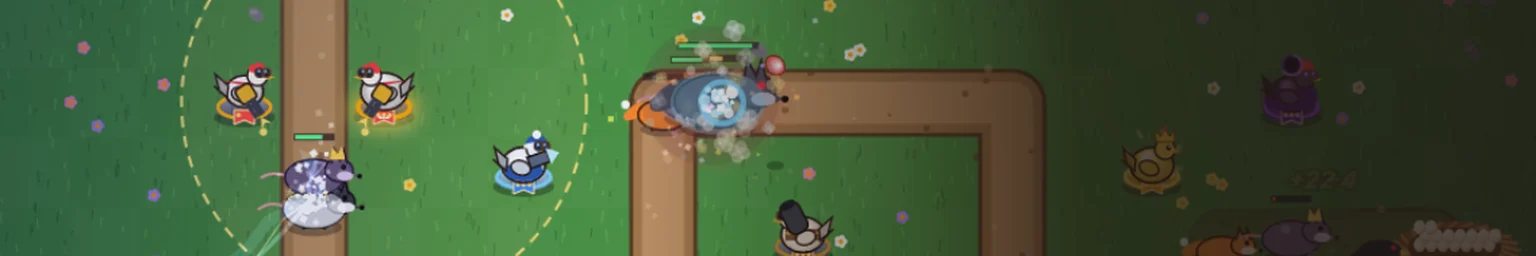
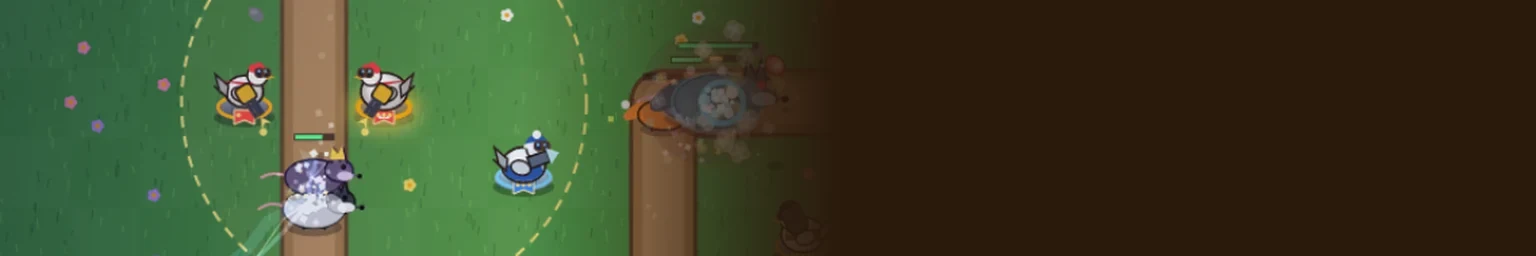
Chicken Defense: livelier map, auto waves, no pause in the upgrade menu, flyers on the path, fullscreen fits
Wheat field, vegetable garden, flower meadow, sunflower and pumpkin patch, a trodden farmyard
and grass along the path edges. Auto starts the next wave 3 s after the field is clear. All
flying enemies now follow the path. In fullscreen the field shrinks to fit so the whole chicken
bar stays visible. Dashboard: the Chicken Defense tile fades like the others; Chicken Derby
gets its own tile.

diff --git a/frontend/src/defense/render.js b/frontend/src/defense/render.js
@@ -131,6 +131,77 @@ export class DefenseRenderer {
       g.strokeStyle = rnd() < 0.5 ? "rgba(150,225,110,0.55)" : "rgba(30,90,35,0.5)"; g.lineWidth = 1;
       g.beginPath(); g.moveTo(x, y); g.quadraticCurveTo(x + (rnd() - 0.5) * 4, y - h * 0.6, x + (rnd() - 0.5) * 5, y - h); g.stroke();
     }
+    // Farm zones painted into the meadow (towers can still stand on them).
+    const zone = (c, r, w, h, draw) => {
+      const x = c * T, y = r * T, ww = w * T, hh = h * T;
+      g.save();
+      g.beginPath(); g.roundRect(x + 4, y + 4, ww - 8, hh - 8, 18); g.clip();
+      draw(x, y, ww, hh);
+      g.restore();
+      g.strokeStyle = "rgba(60,40,20,0.35)"; g.lineWidth = 3;
+      g.beginPath(); g.roundRect(x + 4, y + 4, ww - 8, hh - 8, 18); g.stroke();
+    };
+    // light and colour variation across the meadow
+    for (const [x, y, r, col] of [[W * 0.1, H * 0.15, 380, "rgba(220,230,120,0.16)"], [W * 0.85, H * 0.9, 420, "rgba(20,70,40,0.18)"], [W * 0.55, H * 0.5, 300, "rgba(150,210,90,0.12)"], [W * 0.3, H * 0.95, 260, "rgba(200,190,90,0.12)"]]) {
+      const grd = g.createRadialGradient(x, y, 0, x, y, r);
+      grd.addColorStop(0, col); grd.addColorStop(1, "rgba(0,0,0,0)");
+      g.fillStyle = grd; g.fillRect(0, 0, W, H);
+    }
+    // wheat field inside the first bend
+    zone(5, 3, 4, 6, (x, y, w, h) => {
+      g.fillStyle = "#c99a3a"; g.fillRect(x, y, w, h);
+      for (let row = y + 10; row < y + h; row += 14) {
+        g.fillStyle = "rgba(255,226,120,0.85)"; g.fillRect(x, row, w, 6);
+        for (let k = x + 4; k < x + w; k += 7) {
+          g.strokeStyle = "#e8b84a"; g.lineWidth = 2; g.beginPath(); g.moveTo(k, row + 6); g.lineTo(k + 1, row - 4); g.stroke();
+          g.fillStyle = "#ffd86a"; g.beginPath(); g.ellipse(k + 1, row - 5, 2, 4, 0.2, 0, TAU); g.fill();
+        }
+      }
+    });
+    // vegetable garden on the left
+    zone(0, 3, 4, 4, (x, y, w, h) => {
+      g.fillStyle = "#5a3a20"; g.fillRect(x, y, w, h);
+      for (let row = y + 18, i = 0; row < y + h; row += 26, i++) {
+        g.fillStyle = "#6e4826"; g.fillRect(x, row - 8, w, 16);
+        g.fillStyle = "rgba(255,220,180,0.12)"; g.fillRect(x, row - 8, w, 3);
+        for (let k = x + 16; k < x + w - 6; k += 24) {
+          if (i % 2) {   // cabbages
+            g.fillStyle = "#3f8a3a"; g.beginPath(); g.arc(k, row, 8, 0, TAU); g.fill();
+            g.fillStyle = "#7ac85a"; g.beginPath(); g.arc(k - 2, row - 2, 5, 0, TAU); g.fill();
+          } else {       // carrots
+            g.fillStyle = "#ff8a2a"; g.beginPath(); g.moveTo(k - 3, row); g.lineTo(k + 3, row); g.lineTo(k, row + 7); g.closePath(); g.fill();
+            g.strokeStyle = "#4aa83a"; g.lineWidth = 2; g.beginPath(); g.moveTo(k, row); g.lineTo(k - 4, row - 9); g.moveTo(k, row); g.lineTo(k + 4, row - 9); g.moveTo(k, row); g.lineTo(k, row - 10); g.stroke();
+          }
+        }
+      }
+    });
+    // sunflowers and pumpkins at the bottom right
+    zone(13, 11, 3, 2, (x, y, w, h) => {
+      g.fillStyle = "#6a4a26"; g.fillRect(x, y, w, h);
+      for (let k = x + 18; k < x + w; k += 30) {
+        g.fillStyle = "#3a7a2a"; g.beginPath(); g.ellipse(k + 6, y + h - 26, 14, 8, 0.3, 0, TAU); g.fill();
+        g.fillStyle = "#ff8a1a"; g.beginPath(); g.ellipse(k, y + h - 24, 11, 9, 0, 0, TAU); g.fill();
+        g.strokeStyle = "rgba(160,60,0,0.6)"; g.lineWidth = 1.5; g.beginPath(); g.moveTo(k, y + h - 33); g.lineTo(k, y + h - 15); g.stroke();
+        g.fillStyle = "#3a6a1a"; g.fillRect(k - 1, y + h - 36, 3, 5);
+        g.fillStyle = "#ffcf2a"; for (let a = 0; a < 10; a++) { const ang = (a / 10) * TAU; g.beginPath(); g.ellipse(k + 14 + Math.cos(ang) * 8, y + 22 + Math.sin(ang) * 8, 5, 2.5, ang, 0, TAU); g.fill(); }
+        g.fillStyle = "#6a3a10"; g.beginPath(); g.arc(k + 14, y + 22, 5, 0, TAU); g.fill();
+      }
+    });
+    // flower meadow along the top
+    zone(8, 0, 4, 2, (x, y, w, h) => {
+      g.fillStyle = "#6ab84a"; g.fillRect(x, y, w, h);
+      for (let i = 0; i < 90; i++) {
+        const fx = x + rnd() * w, fy = y + rnd() * h;
+        g.fillStyle = ["#ffffff", "#ff8ac8", "#ffe066", "#b48cff", "#ff6a5a"][i % 5];
+        for (let j = 0; j < 5; j++) { const a = (j / 5) * TAU; g.beginPath(); g.arc(fx + Math.cos(a) * 3, fy + Math.sin(a) * 3, 2.4, 0, TAU); g.fill(); }
+        g.fillStyle = "#ffb000"; g.beginPath(); g.arc(fx, fy, 1.8, 0, TAU); g.fill();
+      }
+    });
+    // trodden farmyard around the barn and the nest
+    const yard = g.createRadialGradient(px(19.5), px(4.5), 10, px(19.5), px(4.5), T * 4);
+    yard.addColorStop(0, "rgba(196,160,104,0.75)"); yard.addColorStop(0.6, "rgba(196,160,104,0.35)"); yard.addColorStop(1, "rgba(196,160,104,0)");
+    g.fillStyle = yard; g.fillRect(0, 0, W, H);
+    for (let i = 0; i < 40; i++) { g.fillStyle = "rgba(120,90,50,0.35)"; g.beginPath(); g.arc(px(17 + rnd() * 5), px(3 + rnd() * 4), 1 + rnd() * 2, 0, TAU); g.fill(); }
     const drawPath = (pts, open) => {
       const line = (w, color, dash) => {
         g.strokeStyle = color; g.lineWidth = w; g.lineCap = "round"; g.lineJoin = "round"; g.setLineDash(dash || []);
@@ -147,6 +218,24 @@ export class DefenseRenderer {
     };
     drawPath(PATHS.a, true);
     drawPath(PATHS.b, withB);
+    // grass tufts and little flowers along the path edges
+    const edge = (pts) => {
+      for (let i = 1; i < pts.length; i++) {
+        const [x1, y1] = pts[i - 1], [x2, y2] = pts[i], len = Math.hypot(x2 - x1, y2 - y1);
+        const nx = -(y2 - y1) / (len || 1), ny = (x2 - x1) / (len || 1);
+        for (let d = 0; d < len; d += 0.35) {
+          for (const side of [-1, 1]) {
+            if (rnd() < 0.45) continue;
+            const t = d / len, x = px(x1 + (x2 - x1) * t) + nx * side * T * (0.55 + rnd() * 0.08), y = px(y1 + (y2 - y1) * t) + ny * side * T * (0.55 + rnd() * 0.08);
+            g.strokeStyle = rnd() < 0.5 ? "#3f8a32" : "#5aac42"; g.lineWidth = 2;
+            g.beginPath(); for (let b = -1; b <= 1; b++) { g.moveTo(x + b * 2, y + 3); g.lineTo(x + b * 3 + (rnd() - 0.5) * 2, y - 5 - rnd() * 4); } g.stroke();
+            if (rnd() < 0.12) { g.fillStyle = ["#ffffff", "#ffe066", "#ff8ac8"][Math.floor(rnd() * 3)]; g.beginPath(); g.arc(x, y - 7, 2.2, 0, TAU); g.fill(); }
+          }
+        }
+      }
+    };
+    edge(PATHS.a);
+    if (withB) edge(PATHS.b);
     // pebbles
     for (let i = 0; i < 700; i++) {
       const x = Math.floor(rnd() * COLS), y = Math.floor(rnd() * ROWS);

diff --git a/frontend/src/defense/ChickenDefense.jsx b/frontend/src/defense/ChickenDefense.jsx
@@ -1,5 +1,5 @@
 import React, { useCallback, useEffect, useRef, useState } from "react";
-import { ChevronsRight, Coins, Crosshair, Egg, Expand, FastForward, Flag, Lock, Music, Pause, Play, RefreshCw, Save, Shrink, SlidersHorizontal, Swords, Trash2, Trophy, Volume2, VolumeX, X, Zap } from "lucide-react";
+import { ChevronsRight, Coins, Crosshair, Egg, Expand, FastForward, Flag, Lock, Music, Pause, Play, RefreshCw, Repeat, Save, Shrink, SlidersHorizontal, Swords, Trash2, Trophy, Volume2, VolumeX, X, Zap } from "lucide-react";
 import { useGameRewards } from "../economy/useGameRewards";
 import { CHAOS_MODS, COLS, DefenseEngine, MAX_LEVEL, ROWS, START_EGGS, TOWERS, TOWER_ORDER, branchCost, towerRole, towerStats, upgradeCost } from "./engine.mjs";
 import { BRANCH_STYLE, DefenseRenderer, TOWER_COLORS, branchIcon, drawTower, towerArtReady, T } from "./render.js";
@@ -188,7 +188,8 @@ export function ChickenDefense({ user, renderScoreboard }) {
   const [musicOn, setMusicOn] = useState(true);
   const [volumeOpen, setVolumeOpen] = useState(false);
   const [role, setRole] = useState("alle");
-  const pausedByModal = useRef(false);
+  const [auto, setAuto] = useState(false);
+  const [autoIn, setAutoIn] = useState(null);
   const shopRef = useRef(TOWER_ORDER);
   const [full, setFull] = useState(false);
   const [message, setMessage] = useState("");
@@ -263,9 +264,8 @@ export function ChickenDefense({ user, renderScoreboard }) {
 
   useEffect(() => { if (sys.current.renderer) sys.current.renderer.ui.placing = placing; }, [placing]);
   useEffect(() => {
+    // the game keeps running while the upgrade menu is open
     if (sys.current.renderer) sys.current.renderer.ui.selected = selected;
-    if (selected && !pausedRef.current) { pausedByModal.current = true; setPaused(true); }
-    if (!selected && pausedByModal.current) { pausedByModal.current = false; setPaused(false); }
   }, [selected]);
   useEffect(() => { sys.current.audio?.pause(paused); }, [paused]);
 
@@ -276,7 +276,7 @@ export function ChickenDefense({ user, renderScoreboard }) {
     engine.start();
     sys.current.startedAt = performance.now();
     rewards.beginRound();
-    setPlacing(null); setSelected(null); setPaused(false); setMessage("");
+    setPlacing(null); setSelected(null); setPaused(false); setMessage(""); setAutoIn(null);
     audio.music("calm");
     sync();
   }
@@ -370,6 +370,19 @@ export function ChickenDefense({ user, renderScoreboard }) {
   const canCall = playing && snap.queued === 0;
   const early = playing && snap.waveActive && snap.enemies > 0;
   const danger = snap.eggs <= 5 && playing;
+  // Auto: when the field is clear, the next wave starts on its own after 3 seconds.
+  const autoReady = auto && playing && !paused && snap.queued === 0 && !(snap.waveActive && snap.enemies > 0);
+  useEffect(() => {
+    if (!autoReady) { setAutoIn(null); return undefined; }
+    let left = 3;
+    setAutoIn(left);
+    const t = setInterval(() => {
+      left -= 1;
+      if (left <= 0) { clearInterval(t); setAutoIn(null); keys.current.nextWave(); }
+      else setAutoIn(left);
+    }, 1000);
+    return () => clearInterval(t);
+  }, [autoReady, snap.wave]);
 
   return (
     <section ref={root} className={`cdShell${full ? " isFull" : ""}${danger ? " isDanger" : ""}${snap.wave >= 15 ? " isChaos" : ""}`} aria-label="Chicken Defense">
@@ -398,11 +411,12 @@ export function ChickenDefense({ user, renderScoreboard }) {
         {playing && (
           <div className="cdWaveBar">
             <button type="button" className={`cdWaveBtn${canCall ? " ready" : ""}`} onClick={nextWave} disabled={!canCall}>
-              {snap.wave === 0 ? <><Swords size={18} /> Erste Welle starten</> : early ? <><ChevronsRight size={18} /> Nächste Welle früh <em>+{12 + (snap.wave + 1) * 2} Korn</em></> : canCall ? <><Swords size={18} /> Welle {snap.wave + 1} starten</> : <><Zap size={18} /> Welle läuft …</>}
+              {autoIn !== null ? <><Repeat size={18} /> Welle {snap.wave + 1} in {autoIn} …</> : snap.wave === 0 ? <><Swords size={18} /> Erste Welle starten</> : early ? <><ChevronsRight size={18} /> Nächste Welle früh <em>+{12 + (snap.wave + 1) * 2} Korn</em></> : canCall ? <><Swords size={18} /> Welle {snap.wave + 1} starten</> : <><Zap size={18} /> Welle läuft …</>}
             </button>
             <div className="cdSpeed" role="group" aria-label="Spieltempo">
               <button type="button" onClick={() => setPaused((p) => !p)} aria-pressed={paused} aria-label={paused ? "Weiter" : "Pause"}>{paused ? <Play size={16} /> : <Pause size={16} />}</button>
               {[1, 2, 3].map((s) => <button key={s} type="button" className={speed === s ? "active" : ""} onClick={() => setSpeed(s)} aria-pressed={speed === s}>{s === 1 ? "1×" : s === 2 ? <><FastForward size={14} />2×</> : <><FastForward size={14} />3×</>}</button>)}
+              <button type="button" className={`cdAuto${auto ? " active" : ""}`} onClick={() => setAuto((a) => !a)} aria-pressed={auto} title="Wellen starten automatisch 3 Sekunden nach der letzten"><Repeat size={14} /> Auto</button>
             </div>
           </div>
         )}

diff --git a/frontend/src/defense/defense.css b/frontend/src/defense/defense.css
@@ -58,8 +58,15 @@
 .cdScores { margin-top: 16px; }
 .cdScores h3 { display: flex; align-items: center; gap: 8px; }
 
-.cdShell.isFull { overflow: auto; padding: 10px 16px 20px; background: #1a2a12; }
-.cdShell.isFull .cdStage { max-width: calc((100dvh - 330px) * 22 / 13); margin: 0 auto; }
+/* Fullscreen: everything fits on one screen. The field takes whatever height is left
+   between the header and the chicken bar, keeping its 22:13 shape. */
+.cdShell.isFull { display: grid; grid-template-rows: auto minmax(0, 1fr) auto auto; gap: 6px; height: 100vh; height: 100dvh; overflow: hidden; padding: 8px 16px 6px; background: #1a2a12; }
+.cdShell.isFull .cdHeader { padding: 0; }
+.cdShell.isFull .cdStage { min-height: 0; height: 100%; width: auto; max-width: 100%; aspect-ratio: 22 / 13; justify-self: center; }
+.cdShell.isFull .cdCanvas { width: 100%; height: 100%; }
+.cdShell.isFull .cdShopTabs { margin: 0; }
+.cdShell.isFull .cdShop { margin: 0; padding: 4px 4px 6px; }
+.cdShell.isFull .cdShopHint, .cdShell.isFull .cdScores { display: none; }
 
 @media (max-width: 980px) {
 }
@@ -172,3 +179,6 @@
 @media (max-width: 620px) { .cdShop { grid-auto-columns: 100px; } }
 
 @media (prefers-reduced-motion: reduce) { .cdShell * { animation: none !important; } }
+
+.cdSpeed .cdAuto { gap: 4px; }
+.cdSpeed .cdAuto.active { background: #7affb0; }

diff --git a/frontend/src/ui/community-theme.css b/frontend/src/ui/community-theme.css
@@ -299,3 +299,5 @@ main.communityContent { width: 100%; max-width: 1440px; min-height: calc(100vh -
 .communityBalances .balCredits svg { color: #3fe7ff; }
 .communityBalances .balGsc svg { color: #ffc94a; }
 @media (max-width: 700px) { .communityBalances .balCredits > span, .communityBalances .balGsc > span { display: none; } }
+.gameLaunch-horse-race { --game-color: #ff6a3d; background: #22100c; }
+.gameLaunch-horse-race .gameLaunchArtwork { background-image: url('/assets/aviary-banner-derby.webp'); background-size: auto 100%; background-position: left center; }
